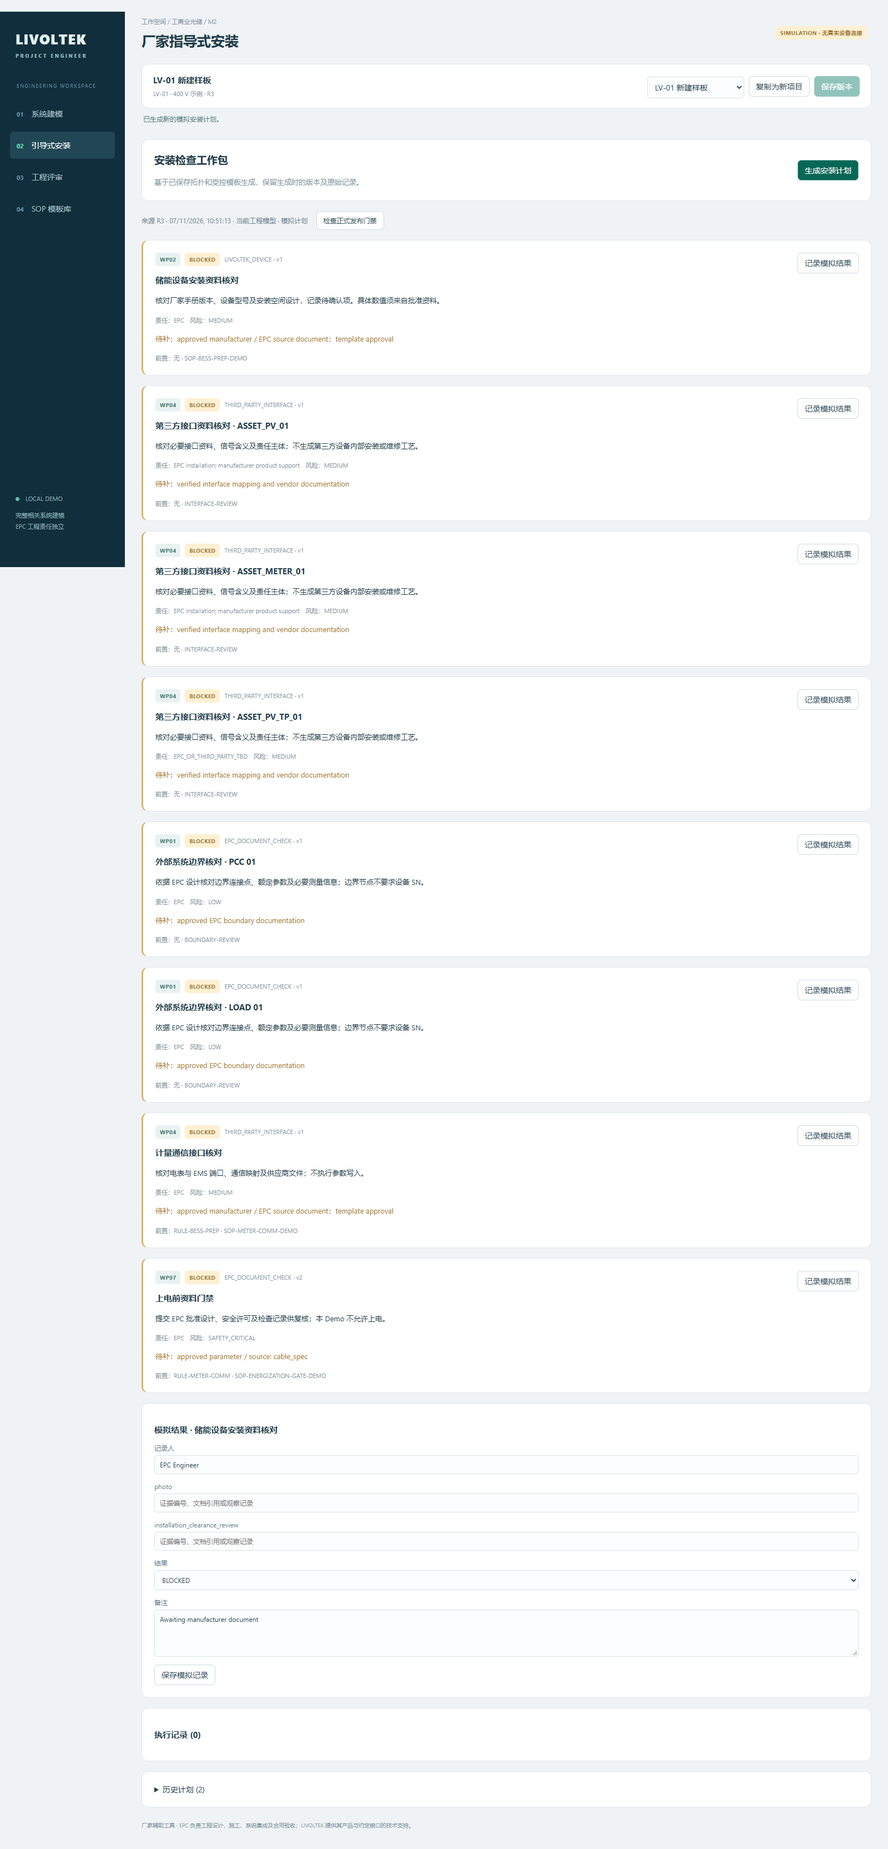
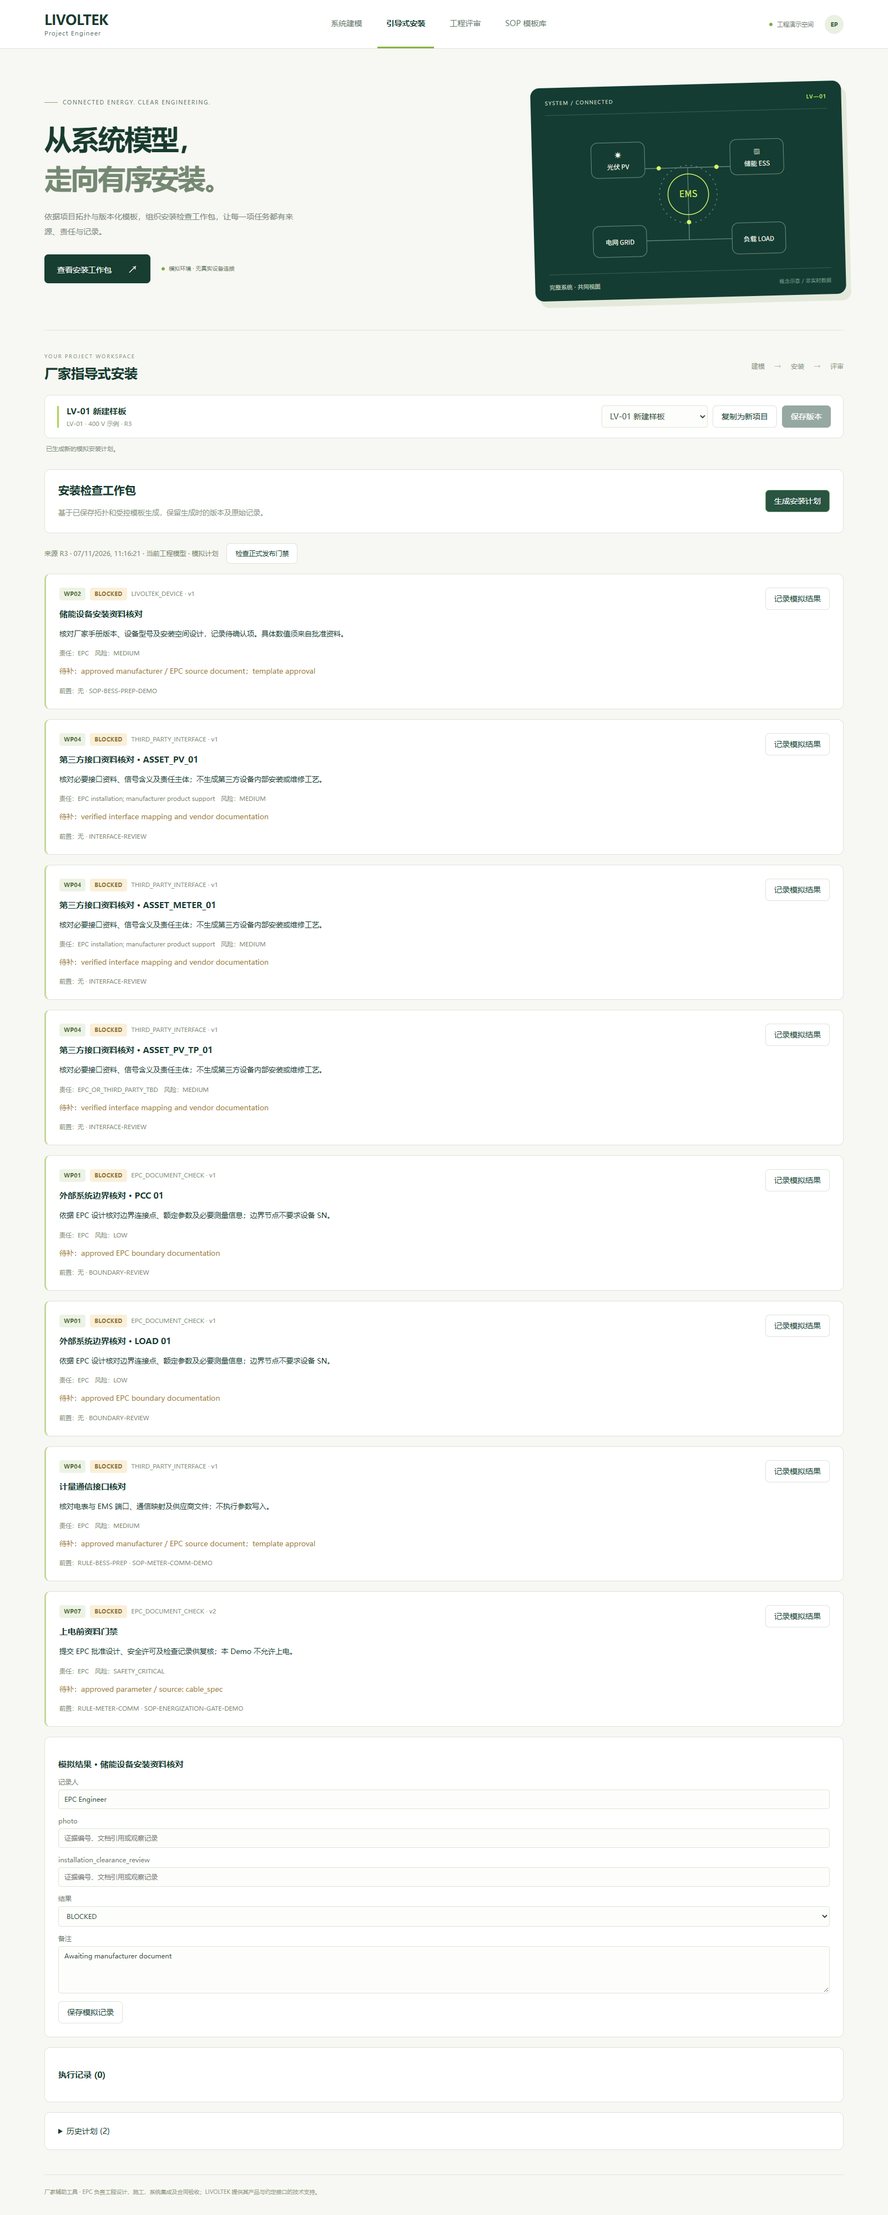
design: replace admin sidebar with responsive website experience

diff --git a/frontend/src/style.css b/frontend/src/style.css
@@ -1,2 +1,6 @@
-:root{font-family:Inter,"Segoe UI","Microsoft YaHei",sans-serif;color:#213c4a;background:#eff3f6;font-synthesis:none;font-size:14px}*{box-sizing:border-box}body{margin:0}button,input,select,textarea{font:inherit}button{border:1px solid #cedae1;background:#fff;border-radius:7px;padding:8px 12px;cursor:pointer;color:#314d5b;white-space:nowrap}button:hover{background:#edf6f4;border-color:#85b7ac}button:disabled{opacity:.45;cursor:not-allowed}.primary{background:#087c69;color:#fff;border-color:#087c69}.primary:hover{background:#076755}.danger{color:#ba5946;margin-top:18px}.app{display:flex;min-height:100vh}.nav{width:225px;flex-shrink:0;background:#102e3b;color:#e2efef;padding:32px 18px;position:fixed;inset:0 auto 0 0;display:flex;flex-direction:column}.brand{font-size:25px;font-weight:850;letter-spacing:1px;margin:0 10px 42px}.brand span{display:block;font-size:9px;letter-spacing:2.6px;color:#93b5bd;margin-top:8px}.workspace{font-size:9px;letter-spacing:1.6px;color:#6d96a4;margin:0 12px 20px}.nav button{color:#a8c0c9;background:none;border:0;text-align:left;padding:15px 12px;margin-bottom:8px}.nav button b{font-size:11px;margin-right:14px;color:#6e9da8}.nav button.active{background:#204753;color:white}.nav button.active b{color:#74e0c4}.navFoot{margin-top:auto;padding:20px 10px;color:#8fb0bb;font-size:11px;line-height:1.8}.dot{display:inline-block;width:7px;height:7px;border-radius:50%;background:#5bc4a4;margin-right:8px}main{margin-left:225px;padding:28px 30px;width:calc(100% - 225px)}header{display:flex;justify-content:space-between;align-items:center;margin-bottom:25px}header small{font-size:11px;color:#7d929e}h1{font-size:25px;font-weight:650;margin:9px 0 0}h2{font-size:19px;margin-top:0}h3{font-size:15px}h4{margin-bottom:10px}.badge{display:inline-block;font-size:10px;font-weight:650;border-radius:5px;padding:5px 8px;background:#e8f2f1;color:#3b776d;margin-right:8px;letter-spacing:.4px}.badge.amber{background:#fff0d2;color:#9a7130}.projectBar,.card,.stats>div,.graphPanel,.inspector{background:#fff;border:1px solid #dfe7ec;border-radius:12px}.projectBar{padding:17px 20px;display:flex;align-items:center;justify-content:space-between;gap:15px}.projectBar strong{display:block;font-size:15px}.projectBar span{display:block;color:#7a8f9a;font-size:11px;margin-top:7px}.actions{display:flex;gap:8px;align-items:center}.actions select{max-width:175px}.notice{font-size:12px;padding:11px 3px;color:#557f83;overflow-wrap:anywhere}.stats{display:grid;grid-template-columns:repeat(4,1fr);gap:14px;margin:6px 0 20px}.stats>div{padding:18px 20px}.stats small{color:#82959f;font-size:11px}.stats strong{display:block;font-size:28px;font-weight:600;margin-top:10px}.stats em{font-size:10px;font-weight:400;color:#8496a0;margin-left:12px;font-style:normal}.stats .statusText{font-size:20px;color:#9e824a;padding-top:7px}.editor{display:grid;grid-template-columns:minmax(0,1fr) 280px;gap:18px}.graphPanel{overflow:hidden;align-self:start}.toolbar{padding:12px 14px;display:flex;gap:10px;align-items:center;border-bottom:1px solid #e8eef2;flex-wrap:wrap}.toolbar label{display:flex;align-items:center;gap:7px;font-size:11px;margin:0}.layers{display:flex;gap:12px;flex:1;flex-wrap:wrap}.layers input{width:auto}.canvas{height:560px;width:100%}.canvasHint{font-size:10px;color:#8a9ca8;padding:10px 16px;border-top:1px solid #e8eef2}.inspector{padding:18px;max-height:850px;overflow:auto}.inspector h3{margin-top:0}.inspector>select{margin-bottom:12px;width:100%}label{display:block;font-size:12px;color:#657e8c;margin:14px 0}input,select,textarea{display:block;border:1px solid #d8e1e8;border-radius:6px;padding:8px 9px;background:#fcfdfe;color:#2b4957;width:100%;margin-top:5px}input:focus,select:focus,textarea:focus{outline:2px solid #9bd8c8;border-color:transparent}input[type=checkbox]{accent-color:#0a8d76;margin:0}textarea{resize:vertical;min-height:85px}.mono{font-family:monospace;overflow-wrap:anywhere;color:#8ca1ae;font-size:10px}.scope{font-size:11px;line-height:1.7;background:#f0f6f7;padding:10px;border-radius:6px}.port{display:flex;gap:5px;align-items:center;margin:7px 0}.port input{width:55px}.port select{min-width:0}.port button{padding:7px}.card{padding:22px;margin:18px 0}.card p{font-size:13px;line-height:1.8}.error{color:#ba483c}.warning{color:#a97829}.json{font-family:Consolas,monospace;min-height:400px;font-size:12px;line-height:1.5;margin-bottom:15px}.heading{display:flex;align-items:center;justify-content:space-between}.heading p{margin-bottom:0;color:#82949f}.twoCol{display:grid;grid-template-columns:1fr 1fr;gap:20px}.twoCol>.card{margin-top:6px}.task{display:flex;justify-content:space-between;gap:20px;align-items:start;border-left:3px solid #d9b366}.task p{max-width:850px}.task small{font-size:11px;color:#7d919b}.subtle{color:#85969f;font-size:11px}.planMeta{font-size:12px;color:#718691;display:flex;align-items:center;gap:15px}.review{border-bottom:1px solid #e5edf0;padding:20px 0}.review strong{display:block;margin-top:12px}.review small{color:#8b9da6}.history{display:flex;align-items:center;justify-content:space-between;margin:10px 0;font-size:11px}.empty{text-align:center;color:#8c9ea8;padding:65px}footer{color:#8497a3;font-size:10px;margin:25px 0 8px}.loading{padding:80px;font-size:24px}.loading p{font-size:14px}.flow{animation:flow 1s linear infinite}.flow.reverse{animation-direction:reverse}@keyframes flow{to{stroke-dashoffset:-26}}@media(max-width:1200px){main{padding:22px 18px}.nav{width:185px}.brand{font-size:21px}main{margin-left:185px;width:calc(100% - 185px)}.editor{grid-template-columns:minmax(0,1fr) 250px}.stats em{display:block;margin:5px 0 0}.actions select{display:none}}@media(max-width:900px){.nav{position:static;width:155px}main{margin-left:0;width:calc(100% - 155px)}.editor,.twoCol{grid-template-columns:1fr}.inspector{max-height:500px}.stats{grid-template-columns:1fr 1fr}header,.projectBar{align-items:start;flex-direction:column;gap:15px}.canvas{height:460px}}
-.appFieldset{border:0;padding:0;margin:0;min-width:0}
+:root{font-family:"Aptos","Microsoft YaHei UI","Microsoft YaHei",sans-serif;color:#193b30;background:#f7f8f3;font-synthesis:none;font-size:14px;--ink:#173e31;--muted:#74847c;--line:#dce4da;--lime:#d7f876}
+*{box-sizing:border-box}body{margin:0}button,input,select,textarea{font:inherit}button{border:1px solid var(--line);background:white;border-radius:7px;padding:10px 15px;cursor:pointer;color:var(--ink);white-space:nowrap;transition:background .18s,border-color .18s}button:hover{background:#edf3e4;border-color:#8aab79}button:disabled{opacity:.45;cursor:not-allowed}button:focus-visible{outline:3px solid #92bd52;outline-offset:3px}.primary{background:var(--ink);color:white;border-color:var(--ink)}.primary:hover{background:#2a5643}.danger{color:#a94c3a;margin-top:18px}.app{min-height:100vh}.nav{height:88px;display:flex;align-items:center;justify-content:space-between;gap:32px;padding:0 clamp(24px,5vw,88px);border-bottom:1px solid var(--line);background:#fff;position:relative;z-index:5}.brand{font-size:25px;font-weight:900;letter-spacing:-.6px;white-space:nowrap}.brand span{font-size:11px;font-weight:500;display:block;letter-spacing:1px;margin-top:2px;color:#6a7c70}.navLinks{display:flex;gap:12px;height:100%;align-items:stretch}.navLinks button{background:none;border:0;border-bottom:3px solid transparent;border-radius:0;padding:0 16px;font-size:14px;color:#66796d}.navLinks button.active{color:var(--ink);border-bottom-color:#87b43e;font-weight:700}.navLinks button:hover{background:#f7faf2}.navLinks b{position:absolute;width:1px;height:1px;clip-path:inset(50%);overflow:hidden}.navFoot{display:flex;align-items:center;color:#768275;font-size:11px;white-space:nowrap;gap:8px}.avatar{display:inline-grid;place-items:center;width:34px;height:34px;border-radius:50%;background:#eaf0e2;color:#416447;font-weight:700;margin-left:12px}.dot{display:inline-block;width:6px;height:6px;border-radius:50%;background:#81aa45;flex-shrink:0}main{width:100%;max-width:1680px;margin:0 auto;padding:0 clamp(24px,5vw,88px) 24px}.appFieldset{padding:0;border:0;margin:0;min-width:0}.hero{display:grid;grid-template-columns:1.1fr 1fr;gap:7%;align-items:center;padding:64px 0 58px;border-bottom:1px solid var(--line)}.heroCopy>small{display:flex;align-items:center;font-size:10px;letter-spacing:1.5px;color:#69816b;gap:9px}.eyebrowLine{height:1px;width:24px;background:#8ba66c}.hero h1{font-size:clamp(32px,3.1vw,51px);line-height:1.42;letter-spacing:-1.5px;font-weight:650;margin:25px 0 20px}.hero h1 span{color:#758873}.heroCopy>p{font-size:14px;line-height:1.95;color:#79877b;max-width:450px;margin:0 0 26px}.heroActions{display:flex;align-items:center;gap:20px;flex-wrap:wrap}.heroActions button{padding:13px 22px}.heroActions button span{margin-left:24px;font-size:19px}.heroMode{font-size:10px;color:#788772;display:flex;gap:7px;align-items:center}.heroVisual{background:#153c32;border-radius:16px;color:#c5d6c0;padding:22px 26px 18px;transform:rotate(-1.5deg);box-shadow:9px 12px 0 #e4eadb;max-width:560px;width:100%;justify-self:end}.visualTop,.visualBottom{display:flex;justify-content:space-between;gap:10px;font-size:9px;letter-spacing:1.3px}.visualTop{border-bottom:1px solid #3c5d50;padding-bottom:16px}.visualTop span:last-child{color:var(--lime)}.heroVisual svg{display:block;width:100%;max-height:260px;margin:13px 0}.visualBottom{border-top:1px solid #3c5d50;padding-top:16px;font-size:10px;letter-spacing:.3px}.visualBottom span:last-child{color:#7e9d8d;font-size:9px}.workspaceIntro{display:flex;align-items:center;justify-content:space-between;padding:36px 0 24px;scroll-margin-top:20px}.workspaceIntro small{color:#92a187;font-size:9px;letter-spacing:1.8px}.workspaceIntro h2{font-size:24px;margin:8px 0 0;font-weight:600}.workspaceIntro>span{font-size:12px;color:#8c9985}.workspaceIntro i{font-style:normal;margin:0 14px;color:#b0bba6}h2{font-size:20px;margin-top:0}h3{font-size:15px}h4{margin-bottom:10px}.badge{display:inline-block;font-size:10px;font-weight:650;border-radius:4px;padding:5px 8px;background:#edf3e4;color:#526e3d;margin-right:8px;letter-spacing:.4px}.badge.amber{background:#faf0d9;color:#947537}.projectBar,.card,.graphPanel,.inspector{background:#fff;border:1px solid var(--line);border-radius:10px}.projectBar{padding:18px 22px;display:flex;align-items:center;justify-content:space-between;gap:15px}.projectBar>div:first-child{border-left:3px solid #add354;padding-left:14px}.projectBar strong{display:block;font-size:15px;font-weight:600}.projectBar span{display:block;color:#8b9685;font-size:11px;margin-top:6px}.actions{display:flex;gap:9px;align-items:center}.actions select{max-width:220px;margin-top:0}.notice{font-size:11px;padding:12px 3px;color:#83917e;overflow-wrap:anywhere}.stats{display:grid;grid-template-columns:repeat(4,1fr);gap:0;margin:4px 0 24px;border-top:1px solid var(--line);border-bottom:1px solid var(--line);padding:18px 0}.stats>div{padding:0 24px;border-right:1px solid var(--line)}.stats>div:first-child{padding-left:3px}.stats>div:last-child{border:0}.stats small{color:#8b9685;font-size:11px}.stats strong{display:block;font-size:27px;font-weight:550;margin-top:5px;letter-spacing:-.5px}.stats em{font-size:10px;font-weight:400;color:#8a9785;margin-left:13px;font-style:normal;letter-spacing:0}.stats .statusText{font-size:20px;color:#9c8b48;padding-top:6px}.editor{display:grid;grid-template-columns:minmax(0,1fr) 280px;gap:18px;align-items:start}.graphPanel{overflow:hidden}.toolbar{padding:12px 14px;display:flex;gap:10px;align-items:center;border-bottom:1px solid #e7ece3;flex-wrap:wrap}.toolbar label{display:flex;align-items:center;gap:7px;font-size:11px;margin:0;white-space:nowrap}.toolbar select{margin:0;width:auto}.layers{display:flex;gap:12px;flex:1;flex-wrap:wrap}.layers input{width:auto}.canvas{height:560px;width:100%}.canvasHint{font-size:10px;color:#8e9b87;padding:12px 16px;border-top:1px solid #e7ece3}.inspector{padding:18px;max-height:780px;overflow:auto}.inspector h3{margin-top:0}.inspector>select{margin-bottom:12px;width:100%}label{display:block;font-size:12px;color:#6e806e;margin:14px 0}input,select,textarea{display:block;border:1px solid #dde5d6;border-radius:5px;padding:9px 10px;background:#fdfefb;color:#35513e;width:100%;margin-top:6px}input:focus,select:focus,textarea:focus{outline:2px solid #bbd995;border-color:transparent}input[type=checkbox]{accent-color:#42684e;margin:0}textarea{resize:vertical;min-height:85px}.mono{font-family:Consolas,monospace;overflow-wrap:anywhere;color:#92a088;font-size:10px}.scope{font-size:11px;line-height:1.8;background:#f1f5ea;padding:11px;border-radius:5px}.port{display:flex;gap:5px;align-items:center;margin:7px 0}.port input{width:60px}.port select{min-width:0}.port button{padding:8px}.card{padding:24px;margin:18px 0}.card p{font-size:13px;line-height:1.8}.error{color:#ba483c}.warning{color:#a28239}.json{font-family:Consolas,monospace;min-height:400px;font-size:12px;line-height:1.5;margin-bottom:15px}.heading{display:flex;align-items:center;justify-content:space-between}.heading p{margin-bottom:0;color:#87947f}.twoCol{display:grid;grid-template-columns:1fr 1fr;gap:20px}.twoCol>.card{margin-top:6px}.task{display:flex;justify-content:space-between;gap:20px;align-items:start;border-left:3px solid #c5d999}.task p{max-width:850px}.task small{font-size:11px;color:#7f8e75}.subtle{color:#89977e;font-size:11px}.planMeta{font-size:12px;color:#7a896e;display:flex;align-items:center;gap:15px;flex-wrap:wrap}.review{border-bottom:1px solid #e5ebde;padding:20px 0}.review strong{display:block;margin-top:12px}.review small{color:#8b9a80}.history{display:flex;align-items:center;justify-content:space-between;gap:12px;margin:10px 0;font-size:11px}.empty{text-align:center;color:#8c9a7f;padding:65px}footer{color:#92a088;font-size:10px;margin:44px 0 8px;border-top:1px solid var(--line);padding-top:22px;line-height:1.8}.loading{padding:80px;font-size:24px}.loading p{font-size:14px}.flow{animation:flow 1s linear infinite}.flow.reverse{animation-direction:reverse}@keyframes flow{to{stroke-dashoffset:-26}}
+@media(min-width:1800px){.hero{padding-top:80px;padding-bottom:75px}}
+@media(max-width:1150px){.nav{gap:15px;padding:0 24px}.navLinks{gap:0}.navLinks button{padding:0 12px}.navFoot{font-size:0}.avatar{font-size:11px;margin:0}main{padding:0 24px 24px}.hero{gap:30px}.heroCopy>p{font-size:13px}.editor{grid-template-columns:minmax(0,1fr) 260px}.stats em{display:block;margin:5px 0 0}}
+@media(max-width:800px){.nav{height:auto;min-height:82px;padding:18px 20px 0;flex-wrap:wrap;gap:15px}.brand{font-size:22px}.navLinks{order:3;flex-basis:100%;justify-content:space-between;height:48px}.navLinks button{padding:0 6px;font-size:12px}.navFoot{margin-left:auto}.hero{grid-template-columns:1fr;padding:38px 0;gap:28px}.hero h1{font-size:36px;margin-top:18px}.heroVisual{max-width:none;transform:none;box-shadow:5px 6px 0 #e4eadb}.heroVisual svg{max-height:200px}.heroCopy>p{max-width:580px}.editor,.twoCol{grid-template-columns:1fr}.inspector{max-height:520px}.projectBar{align-items:stretch;flex-direction:column}.actions{flex-wrap:wrap}.actions select{max-width:none;flex:1;min-width:150px}.stats>div{padding:0 10px}.stats strong{font-size:23px}.stats .statusText{font-size:16px}.workspaceIntro>span{display:none}.heading{gap:16px;align-items:flex-start;flex-direction:column}.task{flex-direction:column}.history{flex-wrap:wrap}}
+@media(prefers-reduced-motion:reduce){.flow{animation:none}*{scroll-behavior:auto!important;transition:none!important}}

diff --git a/frontend/src/App.tsx b/frontend/src/App.tsx
@@ -58,8 +58,9 @@ export default function App(){
  function exportModel(){const url=URL.createObjectURL(new Blob([JSON.stringify(model,null,2)],{type:'application/json'}));const a=document.createElement('a');a.href=url;a.download=id+'-R'+revision+'.json';a.click();URL.revokeObjectURL(url)}
  if(!model)return <div className="loading">LIVOLTEK Project Engineer<p>{message}</p></div>
  return <div className="app">
-  <aside className="nav"><div className="brand">LIVOLTEK<span>PROJECT ENGINEER</span></div><div className="workspace">ENGINEERING WORKSPACE</div>{[['M1','系统建模'],['M2','引导式安装'],['Review','工程评审'],['Templates','SOP 模板库']].map(([key,title],i)=><button key={key} className={tab===key?'active':''} onClick={()=>setTab(key)}><b>0{i+1}</b>{title}</button>)}<div className="navFoot"><span className="dot"/> LOCAL DEMO<p>完整相关系统建模<br/>EPC 工程责任独立</p></div></aside>
-  <main aria-busy={busy}><fieldset disabled={busy} className="appFieldset"><header><div><small>工作空间 / 工商业光储 / {tab}</small><h1>{tab==='M1'?'系统工程拓扑':tab==='M2'?'厂家指导式安装':tab==='Review'?'工程评审记录':'受控 SOP 模板库'}</h1></div><span className="badge amber">SIMULATION · 无真实设备连接</span></header>
+  <nav className="nav" aria-label="主导航"><div className="brand">LIVOLTEK<span>Project Engineer</span></div><div className="navLinks">{[['M1','系统建模'],['M2','引导式安装'],['Review','工程评审'],['Templates','SOP 模板库']].map(([key,title],i)=><button key={key} className={tab===key?'active':''} aria-current={tab===key?'page':undefined} onClick={()=>setTab(key)}><b>0{i+1}</b>{title}</button>)}</div><div className="navFoot"><span className="dot"/>工程演示空间<span className="avatar">EP</span></div></nav>
+  <main aria-busy={busy}><fieldset disabled={busy} className="appFieldset"><header className="hero"><div className="heroCopy"><small><span className="eyebrowLine"/> CONNECTED ENERGY. CLEAR ENGINEERING.</small><h1>{tab==='M1'?<>看见系统全貌，<br/><span>连接每一步。</span></>:tab==='M2'?<>从系统模型，<br/><span>走向有序安装。</span></>:tab==='Review'?<>让工程判断，<br/><span>有迹可循。</span></>:<>把专业经验，<br/><span>变成可靠指引。</span></>}</h1><p>{tab==='M1'?'将储能、光伏与相关设备汇聚在一张拓扑中，让工程团队围绕同一个项目，清晰建模、协同确认。':tab==='M2'?'依据项目拓扑与版本化模板，组织安装检查工作包，让每一项任务都有来源、责任与记录。':tab==='Review'?'围绕设备、连接与安装任务交流意见，保留每次修改依据和评审结论。':'维护厂家指导与接口检查模板，让经过评审的内容以明确版本进入项目。'}</p><div className="heroActions"><button className="primary" onClick={()=>document.getElementById('project-workspace')?.scrollIntoView({behavior:'smooth',block:'start'})}>{tab==='M1'?'进入拓扑工作区':tab==='M2'?'查看安装工作包':'进入项目工作区'} <span>↗</span></button><span className="heroMode"><span className="dot"/>模拟环境 · 无真实设备连接</span></div></div><div className="heroVisual" aria-label="系统协作示意"><div className="visualTop"><span>SYSTEM / CONNECTED</span><span>LV—01</span></div><svg viewBox="0 0 480 270" role="img" aria-label="光伏、储能与电网通过能源管理系统协同的概念示意"><g fill="none" stroke="#65867b" strokeWidth="1.5"><path d="M110 90H240V140M370 90H240M240 140V225H110M240 225H370"/><circle cx="240" cy="140" r="54" strokeDasharray="3 7"/><circle cx="240" cy="140" r="38" stroke="#d4f66b"/></g><g fill="#153c32" stroke="#718f82"><rect x="60" y="40" width="100" height="66" rx="12"/><rect x="320" y="40" width="100" height="66" rx="12"/><rect x="60" y="196" width="100" height="58" rx="12"/><rect x="320" y="196" width="100" height="58" rx="12"/></g><g fontFamily="sans-serif" textAnchor="middle" fill="#f3f6eb" fontSize="12"><text x="110" y="68">☀</text><text x="110" y="90">光伏 PV</text><text x="370" y="68">▥</text><text x="370" y="90">储能 ESS</text><text x="240" y="145" fill="#d4f66b" fontSize="17">EMS</text><text x="110" y="231">电网 GRID</text><text x="370" y="231">负载 LOAD</text></g><g fill="#d4f66b"><circle cx="186" cy="90" r="4"/><circle cx="294" cy="90" r="4"/><circle cx="240" cy="192" r="4"/></g></svg><div className="visualBottom"><span>完整系统 · 共同视图</span><span>概念示意 / 非实时数据</span></div></div></header>
+   <section className="workspaceIntro" id="project-workspace"><div><small>YOUR PROJECT WORKSPACE</small><h2>{tab==='M1'?'系统工程拓扑':tab==='M2'?'厂家指导式安装':tab==='Review'?'工程评审记录':'受控 SOP 模板库'}</h2></div><span>建模 <i>→</i> 安装 <i>→</i> 评审</span></section>
    <section className="projectBar"><div><strong>{model.project.name}</strong><span>{model.project.structure_code} · 400 V 示例 · R{revision} {dirty?' · 未保存修改':''}</span></div><div className="actions"><select aria-label="选择项目" value={id} onChange={e=>{if(!dirty||confirm('放弃未保存修改并切换项目？'))run(()=>load(e.target.value))}}>{projects.map(p=><option key={p.id} value={p.id}>{p.name}</option>)}</select><button disabled={busy} onClick={()=>run(async()=>{const m=structuredClone(model);m.project.project_id=newId('LV01');for(const p of m.parameters as {scope:string;owner_id:string}[]){if(p.scope==='PROJECT')p.owner_id=m.project.project_id}m.project.name='LV-01 新建样板';const saved=await api<{model:Model;revision:number}>('/projects',{model:m,expected_revision:0});setProjects(await api('/projects'));await load(saved.model.project.project_id)})}>复制为新项目</button><button className="primary" disabled={busy||!dirty} onClick={()=>run(save)}>保存版本</button></div></section>
    <div className="notice" role="status">{message}</div>
    {tab==='M1'&&<>

diff --git a/frontend/e2e/workflow.spec.ts b/frontend/e2e/workflow.spec.ts
@@ -16,6 +16,7 @@ test('LV-01 editing, persistence, telemetry, SOP review and generation',async({p
  await expect(page.getByLabel('设备名称',{exact:true})).toHaveValue('BESS Browser Test')
  const node=page.getByTestId('topology-canvas').locator('.x6-node').filter({hasText:'BESS Browser Test'})
  await expect(node).toBeVisible()
+ await node.scrollIntoViewIfNeeded()
  const box=await node.boundingBox();if(!box)throw new Error('No graph node')
  await page.mouse.move(box.x+65,box.y+30);await page.mouse.down();await page.mouse.move(box.x+90,box.y+55,{steps:8});await page.mouse.up()
  await expect(page.getByRole('button',{name:'保存版本',exact:true})).toBeEnabled()

diff --git a/frontend/e2e/connections.spec.ts b/frontend/e2e/connections.spec.ts
@@ -22,7 +22,7 @@ test('equipment catalogue and typed port connections',async({page})=>{
  await expect(page.getByRole('status')).toContainText('已添加连接')
  await page.getByRole('button',{name:'保存版本',exact:true}).click()
  await expect(page.getByRole('status')).toContainText('已保存不可变版本')
- await page.getByRole('button',{name:'02引导式安装'}).click()
+ await page.getByRole('button',{name:/引导式安装/}).click()
  await page.getByRole('button',{name:'生成安装计划'}).click()
  await expect(page.getByText(/第三方接口资料核对 · ASSET_/).last()).toBeVisible()
 })
